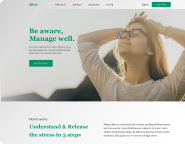
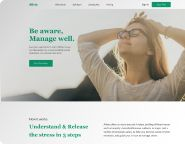
додає ховери та фокуси

diff --git a/css/main.min.css b/css/main.min.css
@@ -1,1 +1,1 @@
-body{color:#424242;background-color:#fff;font-family:Maven,sans-serif;font-size:20px}h1,h2,h3,h4,h5,h6,p,ul{margin:0;padding:0}img{display:block;max-width:100%;height:auto}button{display:block;cursor:pointer;border-radius:4px;border:none}.button{font-weight:400;font-size:20px;line-height:1.25;text-align:center;background-color:#01996d;color:#fff;padding:20px 50px;border:1px solid #01996d}.section-title{font-family:Georgia;font-weight:700;font-size:50px;line-height:157%;color:#01996d;width:585px}.container{margin:0 auto;padding:0 15px;width:1400px}.list{list-style:none;padding-left:0;margin:0}.link{text-decoration:none;color:inherit}.logo{font-family:Maven;font-weight:900;font-size:40px;line-height:1.4;color:#01996d}.footer-logo{color:#fff}.header{border-bottom:1px solid #d6d6d6}.header__container{display:-webkit-box;display:-ms-flexbox;display:flex}.navigation{display:-webkit-box;display:-ms-flexbox;display:flex;-webkit-box-align:center;-ms-flex-align:center;align-items:center}.header-button{display:-webkit-box;display:-ms-flexbox;display:flex;-webkit-box-align:center;-ms-flex-align:center;align-items:center;margin-left:auto}.logo-link{margin-right:auto;padding:30px 0}.navigation__item:not(:last-child){margin-right:72px}.nav-button{font-weight:400;font-size:20px;line-height:1.2;color:#000;background-color:#fff;margin-right:35px}.navigation__link{font-weight:500;line-height:1.2;color:#292929;padding:30px 0}.start-button{padding:13px 50px}.hero{max-width:1600px;max-height:900px;background-image:url(../images/BGR.jpg);background-position:center;background-repeat:no-repeat;margin:0 auto}.hero-container{padding:175px 17px 336px}.hero-title{font-family:"Georgia";font-weight:700;font-size:65px;line-height:1.2;width:440px;color:#01996d}.hero__text{font-weight:400;line-height:1.55;color:#484848;width:420px;margin:30px 0 48px 0}.working{padding-top:169px;padding-bottom:51px}.working__container{height:1390px;position:relative}.how{font-weight:600;font-size:24px;line-height:157%}.steps-title{display:-webkit-box;display:-ms-flexbox;display:flex;-webkit-box-align:center;-ms-flex-align:center;align-items:center;-webkit-box-pack:justify;-ms-flex-pack:justify;justify-content:space-between;margin-bottom:52px}.steps-text{width:660px;font-weight:500;line-height:150%}.steps{display:-webkit-box;display:-ms-flexbox;display:flex}.personalize{position:relative;width:390px}.write{width:390px;position:absolute;bottom:0;left:36.5%}.alivio{position:relative;width:390px;margin-left:auto}.steps__icon{fill:rgba(1,153,109,.2)}.working__title{position:absolute;top:13%;left:19%;font-family:"Georgia";font-weight:700;font-size:30px;line-height:150%;text-align:center;color:#000}.working__text{font-weight:500;line-height:150%;margin-bottom:45px}.img{position:relative}.small-img{position:absolute;right:0%;bottom:25%}.success{padding:230px 210px 180px;background-color:#245852}.success__container{margin:0 auto;padding:0 17px;max-width:1600px;display:-webkit-box;display:-ms-flexbox;display:flex;-webkit-box-align:center;-ms-flex-align:center;align-items:center}.success-title{color:#fff;width:540px}.success__text{font-weight:600;font-size:22px;line-height:140%;color:#fff;margin:33px 0 57px}.success__img{z-index:10;border-radius:16px}.success__icon{fill:#fff;position:absolute;right:45%;bottom:41%;z-index:12}.title-button{width:550px}.video{position:relative;margin-left:auto}.window{position:absolute;bottom:-15%;left:0;background-color:#fff;width:300px;height:300px;padding:23px 0 31px;display:-webkit-box;display:-ms-flexbox;display:flex;-webkit-box-orient:vertical;-webkit-box-direction:normal;-ms-flex-direction:column;flex-direction:column;-webkit-box-shadow:0px 1px 1px rgba(0,0,0,.12),0px 4px 4px rgba(0,0,0,.06),1px 4px 6px rgba(0,0,0,.16);box-shadow:0px 1px 1px rgba(0,0,0,.12),0px 4px 4px rgba(0,0,0,.06),1px 4px 6px rgba(0,0,0,.16)}.window__title{font-weight:600;font-size:14.49px;line-height:157%;text-align:center;color:#000;border-bottom:.75px solid #000;padding-bottom:8px;width:110px;margin:auto}.window__img{border-radius:50%;margin:10px auto}.window__name{font-weight:400;font-size:11.9351px;line-height:157%;text-align:center;color:#000}.title-list{font-family:"Georgia";font-weight:700;font-size:15.9px;line-height:157%;color:#000;margin:20px 0 16px}.window__item{font-weight:400;font-size:10.6px;line-height:157%;color:#000}.window__item:not(:last-child){margin-bottom:16px}.div{margin:auto}.diary{padding:120px 0 170px}.diary__container{position:relative;display:-webkit-box;display:-ms-flexbox;display:flex}.diary__img{margin-left:60px}.diary__paragraph{margin-left:auto}.diary__text{width:530px;font-weight:400;line-height:1.55;color:#484848;margin:40px 0}.page-footer{background-color:#245852;padding:92px 0 147px}.footer__link{font-weight:600;font-size:25px;line-height:1.2;color:#fff}.footer__item:not(:last-child){margin-bottom:60px}.footer__item:first-child{margin-top:60px}/*# sourceMappingURL=main.min.css.map */
+body{color:#424242;background-color:#fff;font-family:Maven,sans-serif;font-size:20px}h1,h2,h3,h4,h5,h6,p,ul{margin:0;padding:0}img{display:block;max-width:100%;height:auto}button{display:block;cursor:pointer;border-radius:4px;border:none}.button{font-weight:400;font-size:20px;line-height:1.25;text-align:center;background-color:#01996d;color:#fff;padding:20px 50px;border:1px solid #01996d;-webkit-transition:background-color 250ms cubic-bezier(0.4, 0, 0.2, 1),border 250ms cubic-bezier(0.4, 0, 0.2, 1),-webkit-box-shadow 250ms cubic-bezier(0.4, 0, 0.2, 1);transition:background-color 250ms cubic-bezier(0.4, 0, 0.2, 1),border 250ms cubic-bezier(0.4, 0, 0.2, 1),-webkit-box-shadow 250ms cubic-bezier(0.4, 0, 0.2, 1);transition:box-shadow 250ms cubic-bezier(0.4, 0, 0.2, 1),background-color 250ms cubic-bezier(0.4, 0, 0.2, 1),border 250ms cubic-bezier(0.4, 0, 0.2, 1);transition:box-shadow 250ms cubic-bezier(0.4, 0, 0.2, 1),background-color 250ms cubic-bezier(0.4, 0, 0.2, 1),border 250ms cubic-bezier(0.4, 0, 0.2, 1),-webkit-box-shadow 250ms cubic-bezier(0.4, 0, 0.2, 1)}.button:hover,.button:focus{-webkit-box-shadow:0px 1px 1px rgba(0,0,0,.12),0px 4px 4px rgba(0,0,0,.06),1px 4px 6px rgba(0,0,0,.16);box-shadow:0px 1px 1px rgba(0,0,0,.12),0px 4px 4px rgba(0,0,0,.06),1px 4px 6px rgba(0,0,0,.16);background-color:#036b4d;border:1px solid #036b4d}.section-title{font-family:Georgia;font-weight:700;font-size:50px;line-height:157%;color:#01996d;width:585px}.container{margin:0 auto;padding:0 15px;width:1400px}.list{list-style:none;padding-left:0;margin:0}.link{text-decoration:none;color:inherit}.logo{font-family:Maven;font-weight:900;font-size:40px;line-height:1.4;color:#01996d}.footer-logo{color:#fff}.header{border-bottom:1px solid #d6d6d6}.header__container{display:-webkit-box;display:-ms-flexbox;display:flex}.navigation{display:-webkit-box;display:-ms-flexbox;display:flex;-webkit-box-align:center;-ms-flex-align:center;align-items:center}.header-button{display:-webkit-box;display:-ms-flexbox;display:flex;-webkit-box-align:center;-ms-flex-align:center;align-items:center;margin-left:auto}.logo-link{margin-right:auto;padding:30px 0}.navigation__item:not(:last-child){margin-right:72px}.nav-button{font-weight:400;font-size:20px;line-height:1.2;color:#000;background-color:#fff;margin-right:35px;padding:13px;border:1px solid #fff;-webkit-transition:background-color 250ms cubic-bezier(0.4, 0, 0.2, 1),color 250ms cubic-bezier(0.4, 0, 0.2, 1),border 250ms cubic-bezier(0.4, 0, 0.2, 1);transition:background-color 250ms cubic-bezier(0.4, 0, 0.2, 1),color 250ms cubic-bezier(0.4, 0, 0.2, 1),border 250ms cubic-bezier(0.4, 0, 0.2, 1)}.nav-button:hover,.nav-button:focus{color:#fff;background-color:#01996d;border:1px solid #01996d}.navigation__link{font-weight:500;line-height:1.2;color:#292929;padding:30px 0;-webkit-transition:color 250ms cubic-bezier(0.4, 0, 0.2, 1);transition:color 250ms cubic-bezier(0.4, 0, 0.2, 1)}.navigation__link:hover,.navigation__link:focus{color:#01996d}.start-button{padding:13px 50px}.hero{max-width:1600px;max-height:900px;background-image:url(../images/BGR.jpg);background-position:center;background-repeat:no-repeat;margin:0 auto}.hero-container{padding:175px 17px 336px}.hero-title{font-family:"Georgia";font-weight:700;font-size:65px;line-height:1.2;width:440px;color:#01996d}.hero__text{font-weight:400;line-height:1.55;color:#484848;width:420px;margin:30px 0 48px 0}.working{padding-top:169px;padding-bottom:51px}.working__container{height:1390px;position:relative}.how{font-weight:600;font-size:24px;line-height:157%}.steps-title{display:-webkit-box;display:-ms-flexbox;display:flex;-webkit-box-align:center;-ms-flex-align:center;align-items:center;-webkit-box-pack:justify;-ms-flex-pack:justify;justify-content:space-between;margin-bottom:52px}.steps-text{width:660px;font-weight:500;line-height:150%}.steps{display:-webkit-box;display:-ms-flexbox;display:flex}.personalize{position:relative;width:390px}.write{width:390px;position:absolute;bottom:0;left:36.5%}.alivio{position:relative;width:390px;margin-left:auto}.steps__icon{fill:rgba(1,153,109,.2)}.working__title{position:absolute;top:13%;left:19%;font-family:"Georgia";font-weight:700;font-size:30px;line-height:150%;text-align:center;color:#000}.working__text{font-weight:500;line-height:150%;margin-bottom:45px}.img{position:relative}.small-img{position:absolute;right:0%;bottom:25%}.success{padding:230px 210px 180px;background-color:#245852}.success__container{margin:0 auto;padding:0 17px;max-width:1600px;display:-webkit-box;display:-ms-flexbox;display:flex;-webkit-box-align:center;-ms-flex-align:center;align-items:center}.success-title{color:#fff;width:540px}.success__text{font-weight:600;font-size:22px;line-height:140%;color:#fff;margin:33px 0 57px}.success__img{z-index:10;border-radius:16px}.success__icon{fill:#fff;position:absolute;right:45%;bottom:41%;z-index:12}.title-button{width:550px}.video{position:relative;margin-left:auto}.window{position:absolute;bottom:-15%;left:0;background-color:#fff;width:300px;height:300px;padding:23px 0 31px;display:-webkit-box;display:-ms-flexbox;display:flex;-webkit-box-orient:vertical;-webkit-box-direction:normal;-ms-flex-direction:column;flex-direction:column;-webkit-box-shadow:0px 1px 1px rgba(0,0,0,.12),0px 4px 4px rgba(0,0,0,.06),1px 4px 6px rgba(0,0,0,.16);box-shadow:0px 1px 1px rgba(0,0,0,.12),0px 4px 4px rgba(0,0,0,.06),1px 4px 6px rgba(0,0,0,.16)}.window__title{font-weight:600;font-size:14.49px;line-height:157%;text-align:center;color:#000;border-bottom:.75px solid #000;padding-bottom:8px;width:110px;margin:auto}.window__img{border-radius:50%;margin:10px auto}.window__name{font-weight:400;font-size:11.9351px;line-height:157%;text-align:center;color:#000}.title-list{font-family:"Georgia";font-weight:700;font-size:15.9px;line-height:157%;color:#000;margin:20px 0 16px}.window__item{font-weight:400;font-size:10.6px;line-height:157%;color:#000}.window__item:not(:last-child){margin-bottom:16px}.div{margin:auto}.diary{padding:120px 0 170px}.diary__container{position:relative;display:-webkit-box;display:-ms-flexbox;display:flex}.diary__img{margin-left:60px}.diary__paragraph{margin-left:auto}.diary__text{width:530px;font-weight:400;line-height:1.55;color:#484848;margin:40px 0}.page-footer{background-color:#245852;padding:92px 0 147px}.footer__link{font-weight:600;font-size:25px;line-height:1.2;color:#fff;-webkit-transition:color 250ms cubic-bezier(0.4, 0, 0.2, 1);transition:color 250ms cubic-bezier(0.4, 0, 0.2, 1)}.footer__link:hover,.footer__link:focus{color:#01996d}.footer__item:not(:last-child){margin-bottom:60px}.footer__item:first-child{margin-top:60px}/*# sourceMappingURL=main.min.css.map */

diff --git a/css/main.css b/css/main.css
@@ -39,6 +39,16 @@ button {
   color: #ffffff;
   padding: 20px 50px;
   border: 1px solid #01996d;
+  -webkit-transition: background-color 250ms cubic-bezier(0.4, 0, 0.2, 1), border 250ms cubic-bezier(0.4, 0, 0.2, 1), -webkit-box-shadow 250ms cubic-bezier(0.4, 0, 0.2, 1);
+  transition: background-color 250ms cubic-bezier(0.4, 0, 0.2, 1), border 250ms cubic-bezier(0.4, 0, 0.2, 1), -webkit-box-shadow 250ms cubic-bezier(0.4, 0, 0.2, 1);
+  transition: box-shadow 250ms cubic-bezier(0.4, 0, 0.2, 1), background-color 250ms cubic-bezier(0.4, 0, 0.2, 1), border 250ms cubic-bezier(0.4, 0, 0.2, 1);
+  transition: box-shadow 250ms cubic-bezier(0.4, 0, 0.2, 1), background-color 250ms cubic-bezier(0.4, 0, 0.2, 1), border 250ms cubic-bezier(0.4, 0, 0.2, 1), -webkit-box-shadow 250ms cubic-bezier(0.4, 0, 0.2, 1);
+}
+.button:hover, .button:focus {
+  -webkit-box-shadow: 0px 1px 1px rgba(0, 0, 0, 0.12), 0px 4px 4px rgba(0, 0, 0, 0.06), 1px 4px 6px rgba(0, 0, 0, 0.16);
+          box-shadow: 0px 1px 1px rgba(0, 0, 0, 0.12), 0px 4px 4px rgba(0, 0, 0, 0.06), 1px 4px 6px rgba(0, 0, 0, 0.16);
+  background-color: #036b4d;
+  border: 1px solid #036b4d;
 }
 
 .section-title {
@@ -124,6 +134,15 @@ button {
   color: #000000;
   background-color: #ffffff;
   margin-right: 35px;
+  padding: 13px;
+  border: 1px solid #ffffff;
+  -webkit-transition: background-color 250ms cubic-bezier(0.4, 0, 0.2, 1), color 250ms cubic-bezier(0.4, 0, 0.2, 1), border 250ms cubic-bezier(0.4, 0, 0.2, 1);
+  transition: background-color 250ms cubic-bezier(0.4, 0, 0.2, 1), color 250ms cubic-bezier(0.4, 0, 0.2, 1), border 250ms cubic-bezier(0.4, 0, 0.2, 1);
+}
+.nav-button:hover, .nav-button:focus {
+  color: #ffffff;
+  background-color: #01996d;
+  border: 1px solid #01996d;
 }
 
 .navigation__link {
@@ -131,6 +150,11 @@ button {
   line-height: 1.2;
   color: #292929;
   padding: 30px 0;
+  -webkit-transition: color 250ms cubic-bezier(0.4, 0, 0.2, 1);
+  transition: color 250ms cubic-bezier(0.4, 0, 0.2, 1);
+}
+.navigation__link:hover, .navigation__link:focus {
+  color: #01996d;
 }
 
 .start-button {
@@ -415,6 +439,11 @@ button {
   font-size: 25px;
   line-height: 1.2;
   color: #ffffff;
+  -webkit-transition: color 250ms cubic-bezier(0.4, 0, 0.2, 1);
+  transition: color 250ms cubic-bezier(0.4, 0, 0.2, 1);
+}
+.footer__link:hover, .footer__link:focus {
+  color: #01996d;
 }
 
 .footer__item:not(:last-child) {

diff --git a/sass/base/_general.scss b/sass/base/_general.scss
@@ -20,9 +20,6 @@ img {
   max-width: 100%;
   height: auto;
 }
-// address {
-//   font-style: normal;
-// }
 button {
   display: block;
   cursor: pointer;
@@ -37,16 +34,16 @@ button {
   background-color: $accent-color;
   color: $primery-white-color;
   padding: 20px 50px;
-  border: 1px solid #01996d;
+  border: 1px solid $accent-color;
+  transition: box-shadow $duration-function, background-color $duration-function,
+    border $duration-function;
+  &:hover,
+  &:focus {
+    box-shadow: $shadow;
+    background-color: #036b4d;
+    border: 1px solid #036b4d;
+  }
 }
-// .section {
-//   padding-top: 60px;
-//   padding-bottom: 60px;
-//   @media screen and (min-width: $desktop) {
-//     padding-top: 94px;
-//     padding-bottom: 94px;
-//   }
-// }
 .section-title {
   font-family: Georgia;
   font-weight: 700;
@@ -69,6 +66,3 @@ button {
   text-decoration: none;
   color: inherit;
 }
-// .mobile-menu .link-current {
-//   color: $accent-color;
-// }

diff --git a/sass/components/_header.scss b/sass/components/_header.scss
@@ -27,12 +27,29 @@
   color: $black-color;
   background-color: $primery-white-color;
   margin-right: 35px;
+  padding: 13px;
+  border: 1px solid $primery-white-color;
+
+  transition: background-color $duration-function, color $duration-function,
+    border $duration-function;
+  &:hover,
+  &:focus {
+    color: $primery-white-color;
+    background-color: $accent-color;
+    border: 1px solid $accent-color;
+  }
 }
 .navigation__link {
   font-weight: 500;
   line-height: 1.2;
   color: $link-color;
   padding: 30px 0;
+
+  transition: color $duration-function;
+  &:hover,
+  &:focus {
+    color: $accent-color;
+  }
 }
 .start-button {
   padding: 13px 50px;

diff --git a/sass/utils/_variables.scss b/sass/utils/_variables.scss
@@ -7,3 +7,4 @@ $black-color: #000000;
 $bgr-accent-color: #245852;
 $shadow: 0px 1px 1px rgba(0, 0, 0, 0.12), 0px 4px 4px rgba(0, 0, 0, 0.06),
   1px 4px 6px rgba(0, 0, 0, 0.16);
+$duration-function: 250ms cubic-bezier(0.4, 0, 0.2, 1);

diff --git a/sass/components/_footer.scss b/sass/components/_footer.scss
@@ -8,6 +8,11 @@
   line-height: 1.2;
 
   color: $primery-white-color;
+  transition: color $duration-function;
+  &:hover,
+  &:focus {
+    color: $accent-color;
+  }
 }
 .footer__item:not(:last-child) {
   margin-bottom: 60px;
